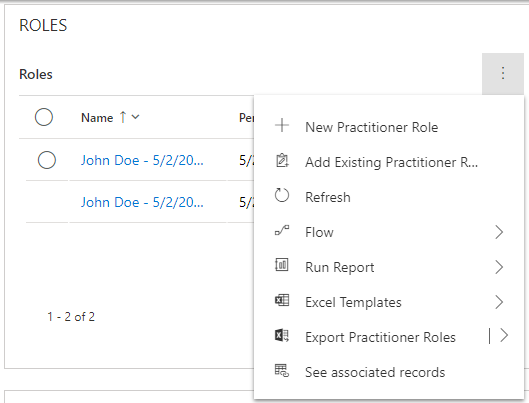
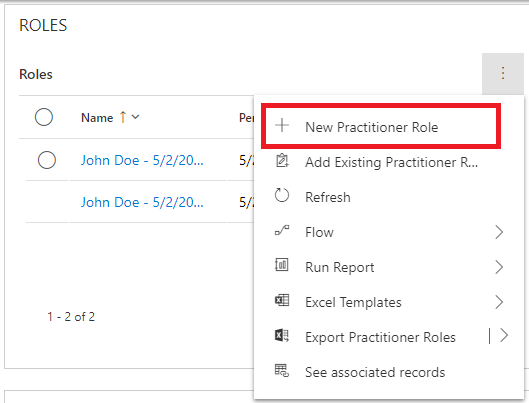
update size

Changed region(s): [[0.4839, 0.2382, 0.9679, 0.3871]]

diff --git a/my-website/docs/Practitioners/Calendar.md b/my-website/docs/Practitioners/Calendar.md
@@ -12,11 +12,11 @@ The Calendar tab displays a calendar with the Practitioners schedule.
 
 The Calendar displays all the Sessions scheduled for this Practitioner. There are 3 views - Day, Week or Month. When on the Day view, the User can select which day they would like to view. When on the Week view, the User can select which week they would like to view. When on the Month view, the User can select which Month they would like to view.
 
-<img src ="/static/img/calendar.jpg" width="1300" height="400"/>
+<img src ="/static/img/calendar.jpg" width="1100" height="700"/>
 
 When looking at the calendar, the Session displays the Service that will be provided and the Patient's Name. Upon clicking on the Session in the Calendar, a popout displays the exact time and duration of the session scheduled. 
 
-<img src ="/static/img/calendarPopout.jpg" width="500"/>
+<img src ="/static/img/calendarPopout.jpg" width="500" height="500"/>
 
 By clicking on 'more details' on the popout, the User will be navigated to the Encounter Service. By clicking on 'delete' on the popout, the Session will be deleted.
 
@@ -24,7 +24,7 @@ By clicking on 'more details' on the popout, the User will be navigated to the E
  
  To add Practitioner availability to their schedule, click 'Set Practitioner Availability'. This will open up the Practitioner Availability calendar in a new tab. (This tab is hidden until a User clicks 'Set Practitioner Availability'.)
 
- <img src ="/static/img/practitionerAvailability.jpg" width="1300" height="400"/>
+ <img src ="/static/img/practitionerAvailability.jpg" width="1300" height="600"/>
 
 Practitioner Availability is used for the [Schedule Assistance](../Scheduling/ScheduleAssistance.md) tool. Any time a Practitioner does not work, displays as unavailable in the tool. This helps a Scheduler schedule a sessions between a Patient and a Practitioner. 
 
@@ -40,7 +40,7 @@ Practitioner Availability is used for the [Schedule Assistance](../Scheduling/Sc
 > 
 > To add the hours when a Practitioners works to the calendar, click 'new'. This will display 3 options - Working hours, Non-working, Time off. 
 >
-><img src ="/static/img/workhours.jpg" width="500"/>
+><img src ="/static/img/workinghours.jpg" width="500"/>
 >
 > Upon clicking 'Working hours', a form will open on the side of the screen. 
 > 
@@ -67,7 +67,7 @@ Practitioner Availability is used for the [Schedule Assistance](../Scheduling/Sc
 >      - Upon selecting 'Custom', the User can select day(s) and set a time for every day that these work hours should repeat.
 >      - When the 'Custom' option is selected, the 'All Day' and 'Capacity' toggle disappear. 
 >
-> <img src ="/static/img/workinghours.jpg" width="500"/> 
+> <img src ="/static/img/customWorkHours.jpg" width="500"/> 
 >
 > - Time
 >   - If the 'All Day' toggle is off, the 'Time' field displays. 

diff --git a/my-website/docs/Practitioners/BasicInfo.md b/my-website/docs/Practitioners/BasicInfo.md
@@ -82,7 +82,7 @@ The 'Roles' section displays all the roles the Practitioner has. I.e. BCBA, Supe
 
 ### <u> Add New Practitioner Role </u> 
 
-To create a new Practitioner Role, click on the 3 dots on the Roles sub grid. This will open up the New Practitioner Role Main Form.
+To create a new Practitioner Role, click on the 3 dots on the Roles sub grid. Then click the 'New Practitioner role' button. This will open up the New Practitioner Role Main Form.
 <img src ="/static/img/addPractitionerRole.jpg" width="500"/>
 
 To read more about Practitioner Role, [click here.](PractitionerRoles.md)
